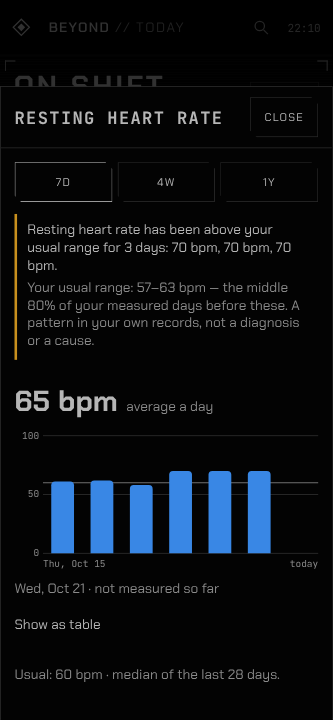
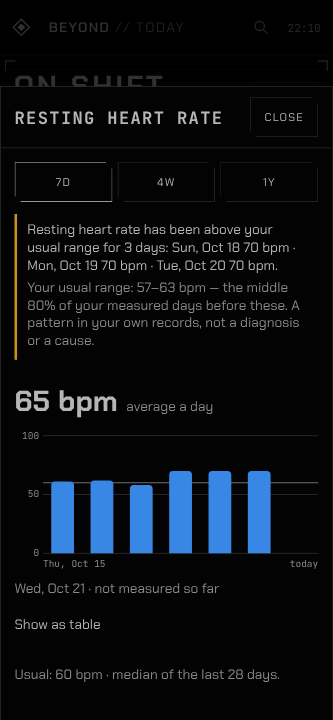
fix(ROTATION-002): name the days in the unusual-for-you sheet
The brief promised the sheet would show the range and the days; it listed
values only. Each value now carries its lived day ("Sun, Oct 18 70 bpm"),
in the measured sheets' date format. Raised in an outside review (Grok)
shared by Gavin.

Claude-Session: https://claude.ai/code/session_01UR9w2qsykppXAa1ZBkZ6Pd

diff --git a/src/ui/screens/today/unusualCopy.ts b/src/ui/screens/today/unusualCopy.ts
@@ -9,6 +9,8 @@ function value(metric: UnusualMetric, n: number): string {
   return metric === "resting" ? `${n} bpm` : metric === "sleep" ? hoursMinutes(n) : Math.round(n).toLocaleString("en-US");
 }
 
+/** The lived day a reading belongs to, as the measured sheets label it: "Sat, Oct 17". */
+const dayLabel = (t: number) => new Date(t).toLocaleDateString("en-US", { weekday: "short", day: "numeric", month: "short" });
 const range = (metric: UnusualMetric, low: number, high: number) => metric === "resting" ? `${low}–${high} bpm` : `${value(metric, low)}–${value(metric, high)}`;
 
 /** The tile's small label: "↑ 3 DAYS". */
@@ -30,7 +32,7 @@ export function describeUnusual(metric: UnusualMetric, reading: UnusualReading):
     ? [...kinds].map((kind) => { const day = [...reading.days].reverse().find((d) => d.kind === kind)!; return `${kind === "WORK" ? "work days" : "days off"} ${range(metric, day.low, day.high)}`; }).join("; ")
     : `${metric === "steps" ? (latest.kind === "OFF" ? "days off " : "work days ") : ""}${range(metric, latest.low, latest.high)}`;
   return {
-    headline: `${NAMES[metric]} has been ${side} your usual range for ${reading.days.length} days: ${reading.days.map((day) => value(metric, day.value)).join(", ")}.`,
+    headline: `${NAMES[metric]} has been ${side} your usual range for ${reading.days.length} days: ${reading.days.map((day) => `${dayLabel(day.from)} ${value(metric, day.value)}`).join(" · ")}.`,
     basis: `Your usual range: ${ranges} — the middle 80% of your measured days before these${metric === "steps" ? ", by kind of day" : ""}. A pattern in your own records, not a diagnosis or a cause.`,
   };
 }

diff --git a/tests/browser/UnusualForYou.test.tsx b/tests/browser/UnusualForYou.test.tsx
@@ -36,7 +36,7 @@ for (const width of [320, 390]) it(`marks three days above your usual range on t
   const before = await db.events.toArray();
   await tile.click();
   const sheet = screen.getByRole("dialog", { name: "RESTING HEART RATE", exact: true });
-  await expect.element(sheet.getByText("Resting heart rate has been above your usual range for 3 days: 70 bpm, 70 bpm, 70 bpm.", { exact: true })).toBeVisible();
+  await expect.element(sheet.getByText("Resting heart rate has been above your usual range for 3 days: Sun, Oct 18 70 bpm · Mon, Oct 19 70 bpm · Tue, Oct 20 70 bpm.", { exact: true })).toBeVisible();
   await expect.element(sheet.getByText(/^Your usual range: 57–63 bpm — the middle 80% of your measured days before these\. A pattern in your own records, not a diagnosis or a cause\.$/)).toBeVisible();
   expect(await db.events.toArray()).toEqual(before);
   expect(document.documentElement.scrollWidth).toBeLessThanOrEqual(width);
